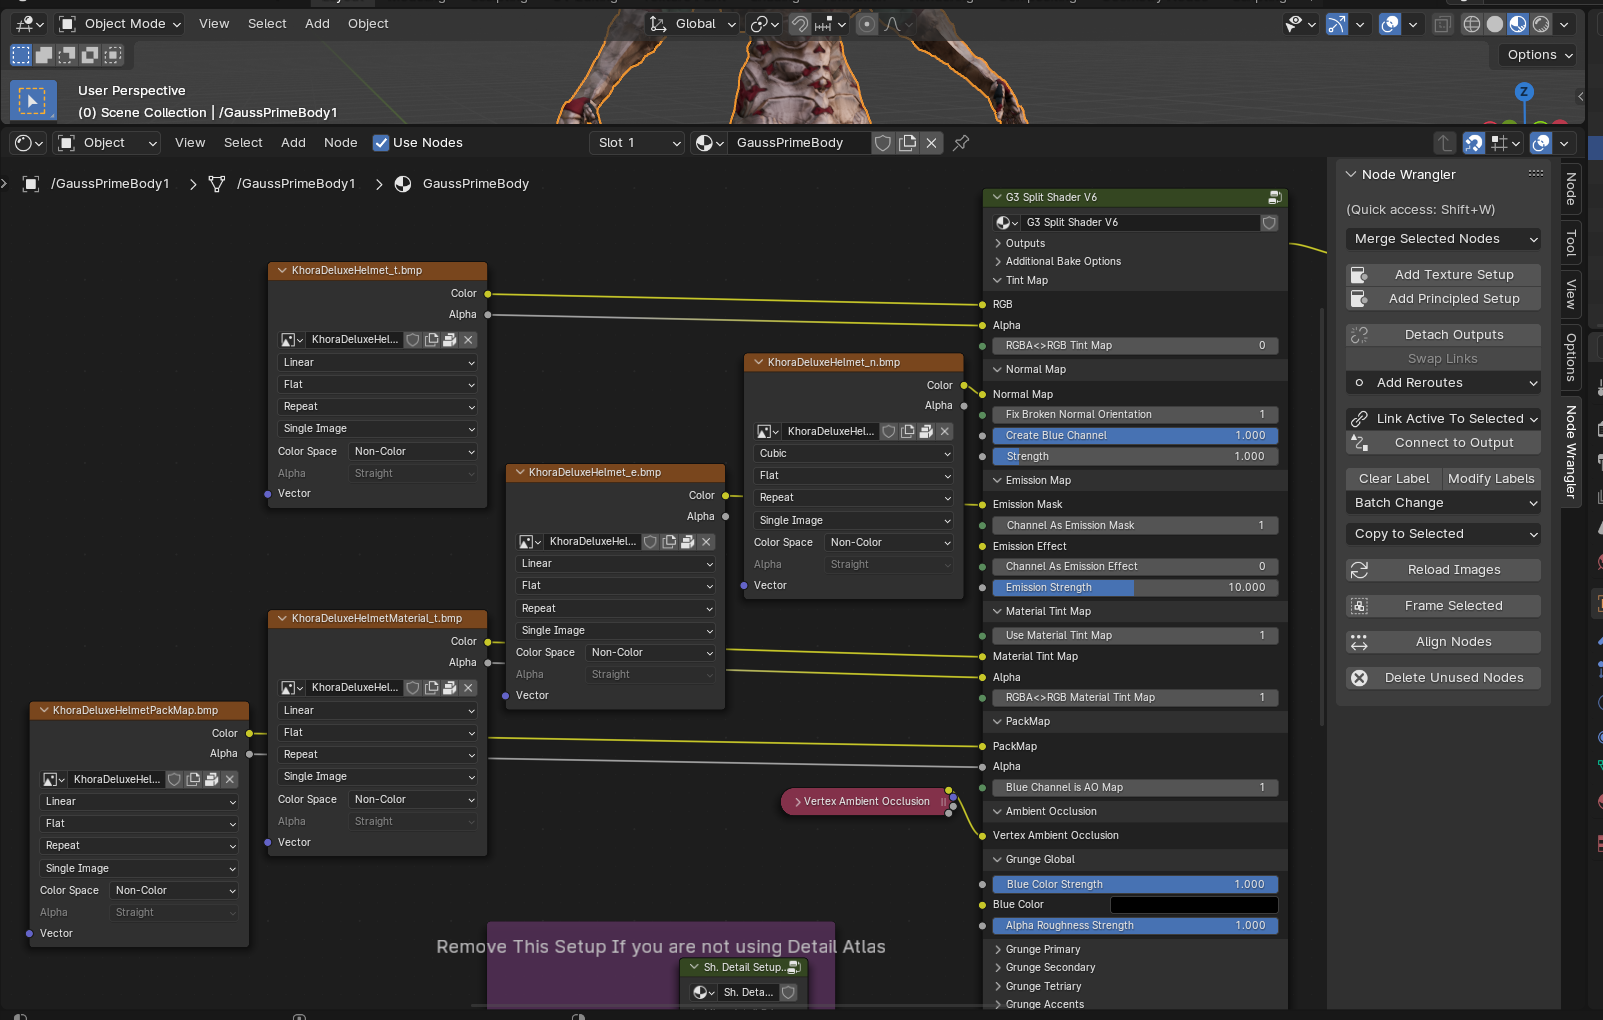
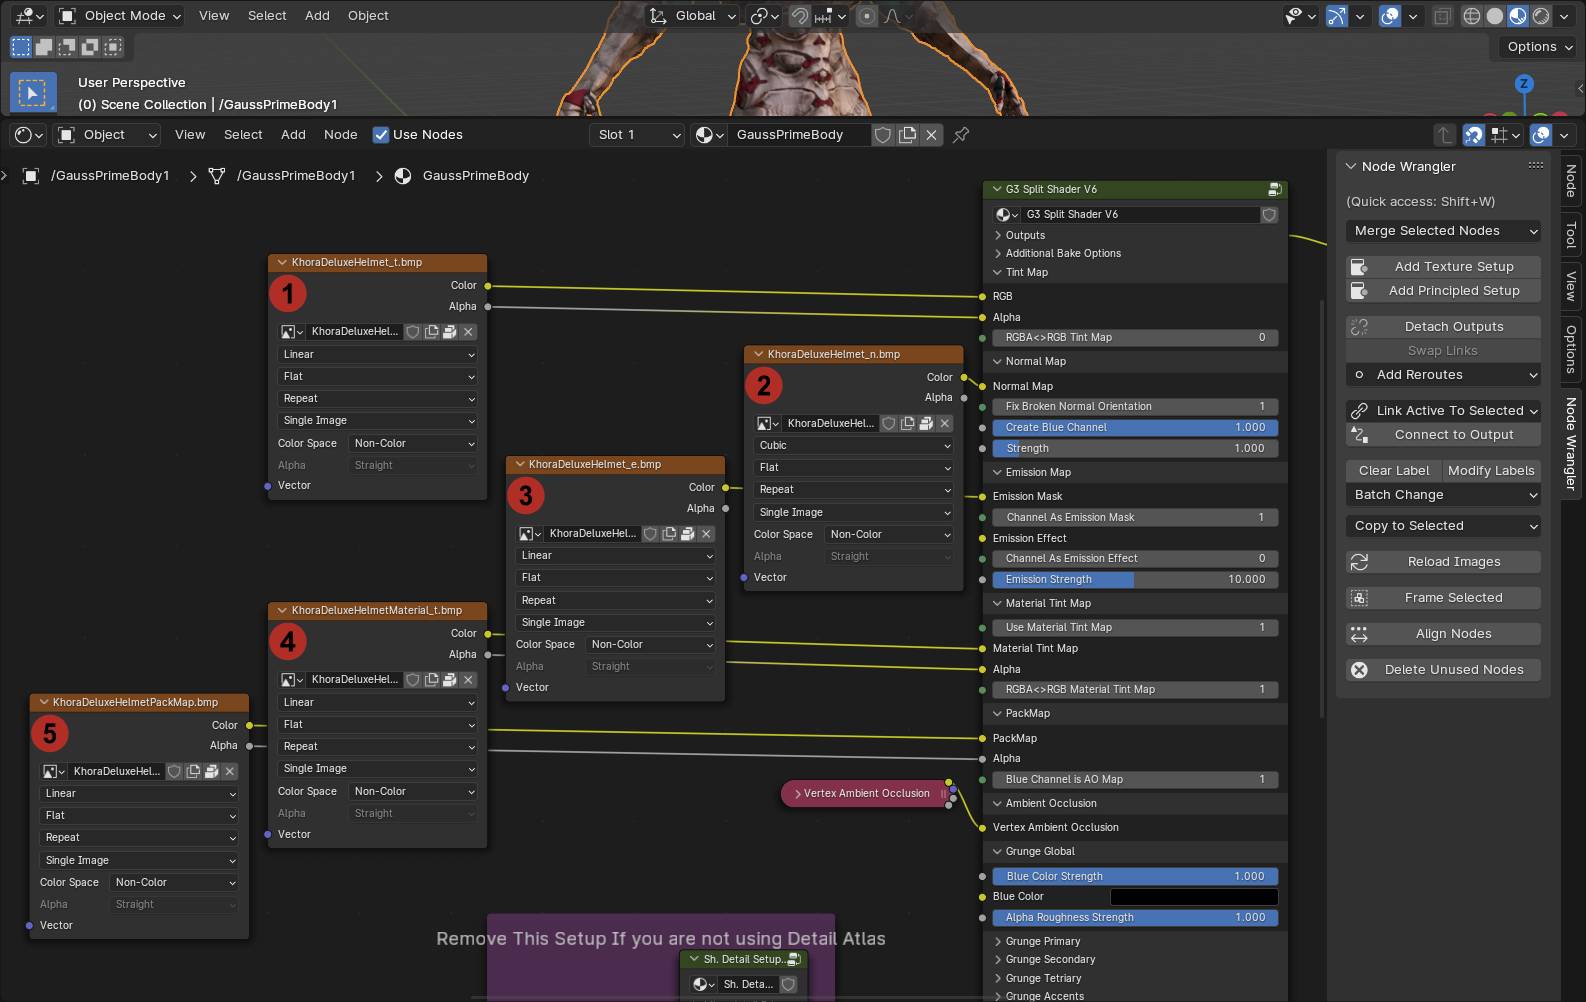
Progress for the night

diff --git a/docs/wf-guides/models/model-setup.md b/docs/wf-guides/models/model-setup.md
@@ -16,7 +16,7 @@ Find the files you extracted and import with these settings.
 - Make sure that Guess Original Bind Pose is not checked.  
 - Make sure that Bone Dir is set to Temperance (average).  
 
-![Importing The Main Model](../../assets/images/import-2.png)  
+![Importing The Main Model](../../assets/images/import-3.png)  
 
 Your blender should contain the model that you imported as well as the skeleton of that model.  
 
@@ -88,8 +88,62 @@ Then we want to replace them with the ones we dragged in.
 1. Tint mask
 2. Normal map 
 3. Emission map 
-4. Packmap 
+4. Tint mask / Material Tint mask
+5. Packmap 
 
 ![](../../assets/images/node-replaced.png)  
 
-Now we are able to set the default colours.
+###### 3.4.3 Setting colours and details 
+
+Now we are able to set the default colours and details.  
+However, our GaussPrimeBody.txt file is empty so we need to look for the colours, grunge and details in one of the frames signature weapons, for us that would be either the Acceltra's or the Akarius' txt file.  
+Inside the Acceltra's file we find these:  
+```c
+"PrimeAcceltraMat.txt"
+
+PS:TintColor0=[0.72000003,0.69999999,0.75,0.5]
+PS:TintColor1=[0.044,0.044,0.044,0.5]
+PS:TintColor2=[0.071000002,0.054000001,0.1,0.5]
+PS:TintColor3=[0.56,0.38,0.097999997,0.5]
+
+PS:EmissiveTintColorLo=[0,0.0044999998,1,1]
+PS:EmissiveTintColorHi=[0,0.85000002,1,1]
+
+PS:UvScale01=[8,8,4,4]
+PS:UvScale23=[4,4,4,4]
+
+
+TX:BlackPackMap=/Lotus/Characters/SharedTileableTextures/PlayerTintable/Porcelain50PackMap
+TX:BlackNormalMap=/Lotus/Characters/Sentient/SentientTileableTextures/SentientSurfaceA_n.png
+
+TX:RedPackMap=/Lotus/Characters/SharedTileableTextures/PlayerTintable/Ivory50PackMap
+TX:RedNormalMap=/Lotus/Characters/SharedTileableTextures/Ivory_n.png
+
+TX:GreenPackMap=/Lotus/Characters/SharedTileableTextures/Metal/MetalMachined/MetalmachinedPackMap
+TX:GreenNormalMap=/Lotus/Characters/Sentient/SentientTileableTextures/SentientIron_n.png
+
+TX:BluePackMap=/Lotus/Characters/SharedTileableTextures/GoldSpecGlossPackMap
+TX:BlueNormalMap=/Lotus/Characters/SharedTileableTextures/GoldSpecGloss_n.png
+
+```
+!!! info "Watch out for this"
+	Your material text file might contain `{}` surrounding the colours, this makes the process of setting colours in blender a lot harder. So you want to replace them with `[]` to be able to paste them straight on to the colour slot.   
+
+First we want to add the colours, for this we copy the:
+`PS:TintColor0=` to the primary colour.  
+`PS:TintColor1=` to the secondary colour.  
+`PS:TintColor2=` to the tertiary colour.  
+`PS:TintColor3=` to the accents colour.  
+`PS:EmissiveTintColorLo=` to the emission low colour.  
+`PS:EmissiveTintColorHi=` to the emission high colour.  
+
+Now we want to set the details up, for this we need to look at the name of each of the textures specified in the `TX:**PackMap=*` and `TX:**NormalMap=*` options.  
+Then we want to cross reference them with the numbers that correspond to the [Detail Names](../shaders/pruu/details.md).  
+`BlackPackMap`/`BlackNormalMap` corresponds to `Microdetail Primary`  
+`RedPackMap`/`RedNormalMap` corresponds to `Microdetail Secondary`  
+`GreenPackMap`/`GreenNormalMap` corresponds to `Microdetail Tertiary`  
+`BluePackMap`/`BlueNormalMap` corresponds to `Microdetail Accents`  
+![Detail Numbers](../../assets/images/detail-nums.png)  
+
+###### 3.4.4 Repeat 
+After you have finished setting up the first material you want to check if there are other materials on other meshes  and if so set them up. 

diff --git a/docs/wf-guides/extractor/index.md b/docs/wf-guides/extractor/index.md
@@ -25,7 +25,7 @@ Secondly create a folder for the extractor as well as the files it will be extra
 
 Inside the folder that you have the Extractor in, hold ++shift++ and then right click, this should bring up the context menu with the option to open in Powershell.  
 	- Make Sure not to have anything selected when doing this.  
-	![open-in-powershell](../../assets/images/open-in-powershell.png)  
+	![open-in-powershell](../../assets/images/open-in-shell.png)  
 
 Once you are in the terminal type `.\Warframe-Exporter.exe --version` to make sure that you are in the right directory and it works.  
 
@@ -33,10 +33,9 @@ Once you are in the terminal type `.\Warframe-Exporter.exe --version` to make su
 Next you need to find where your warframe cache is stored, this will be in the same folder that you installed warframe in.  
 	- If you installed with steam click browse local files to find your installation.  
 		 ![Browse-Local](../../assets/images/browse-local.png)   
-	
-	 You then want to select the folder called `Cache.Windows` and click `Copy Path` up in the ribbon above.  
-	![cache.windows](../../assets/images/cache.windows.png)  
-	You want to paste this  somewhere you can easily access it, as it is needed for all of the commands in the extractor.     
+ You then want to select the folder called `Cache.Windows` and click `Copy Path` up in the ribbon above.  
+![cache.windows](../../assets/images/cache.windows.png)  
+You want to paste this  somewhere you can easily access it, as it is needed for all of the commands in the extractor.     
 
 Type `.\Warframe-Exporter.exe --help` to view all of the commands that you can use.  
 

diff --git a/docs/index.md b/docs/index.md
@@ -4,13 +4,14 @@
 
 ## **This site is still very much incomplete!!!**  
 <br>
+
 ## Contributing  
 If you would like to help with writing these guides head over to [contributing](contributing.md) to find out more information on what needs to be done and how to contribute.  
 
 ## Warframe Model Resources Guides  
 This website serves as a trove of all sorts of information and guides surrounding the processes of ripping and setting up assets from Warframe. 
 
-## What This Website Has To Offer:
+## What This Website Contains:
 
 <div class="grid cards" markdown>
 
@@ -48,7 +49,7 @@ This website serves as a trove of all sorts of information and guides surroundin
 
 </div>
 
-To get started head to the [Introduction](wf-guides/index.md) page.  
+
 <!-- ![Awesome Sandwich](https://rotatingsandwiches.com/wp-content/uploads/2023/08/taylor-ham-pork-roll.gif)   -->
 
-This site is made possible by [Material for MkDocs](https://squidfunk.github.io/mkdocs-material/) and [MkDocs](https://www.mkdocs.org).  
+<small>This site is made possible by [Material for MkDocs](https://squidfunk.github.io/mkdocs-material/) and [MkDocs](https://www.mkdocs.org).</small>  

diff --git a/docs/layout.md b/docs/layout.md
@@ -1,4 +1,27 @@
 # Site layout
 
-Home 
-layout 
+WFMR Guides  
+```
+.
+├───Home  
+│      ├───Home  
+│      ├───Contributing  
+│      └───Site Layout  
+├───Warframe Guides  
+│      ├───Warframe Guides  
+│      ├───Extractor  
+│      │     ├───Warframe Directory Layout  
+│      │     └───Useful Tools  
+│      ├───Shaders  
+│      │     ├──Pruu Shaders  
+│      │     │     └───Detail Names  
+│      │     ├──Valkyrie Shaders  
+│      │     ├──Baking Textures  
+│      ├───Models  
+│      │     ├──How to set up models in Blender  
+│      │     ├──How to use Curated Models  
+│      │     └──Mega Layout  
+├───Curated Models and Resources  
+├───Warframe Model Resources Discord  
+└───Inspiration Gallery # Coming soon 
+```

diff --git a/docs/wf-guides/shaders/pruu/details.md b/docs/wf-guides/shaders/pruu/details.md
@@ -1,8 +1,8 @@
 #### DetailTextures Names 
-These are the Detail Atlases and they are used for all of the microdetails in gen2/gen3 shaders, this page serves as a way to help with figuring out the details needed when setting up the shader.  
-The list is somewhat incomplete as empty material .txt files that contain what details are needed just dont work.
+These are the Detail Atlases and they are used for all of the microdetails in gen3 shaders, this page serves as a way to help with figuring out the details needed when setting up the shader.  
+The list is somewhat incomplete as empty material .txt files that contain what details are needed just don't work.
 
-![](../../../assets/images/norm-atlas%20guide.png)  
+![](../../../assets/images/normal-atlas-guide.png)  
 ![](../../../assets/images/pbr-atlas-guide.png)  
 
 0 Zeroed texture(dont affect anything) at (0 0 0 0 0)  
